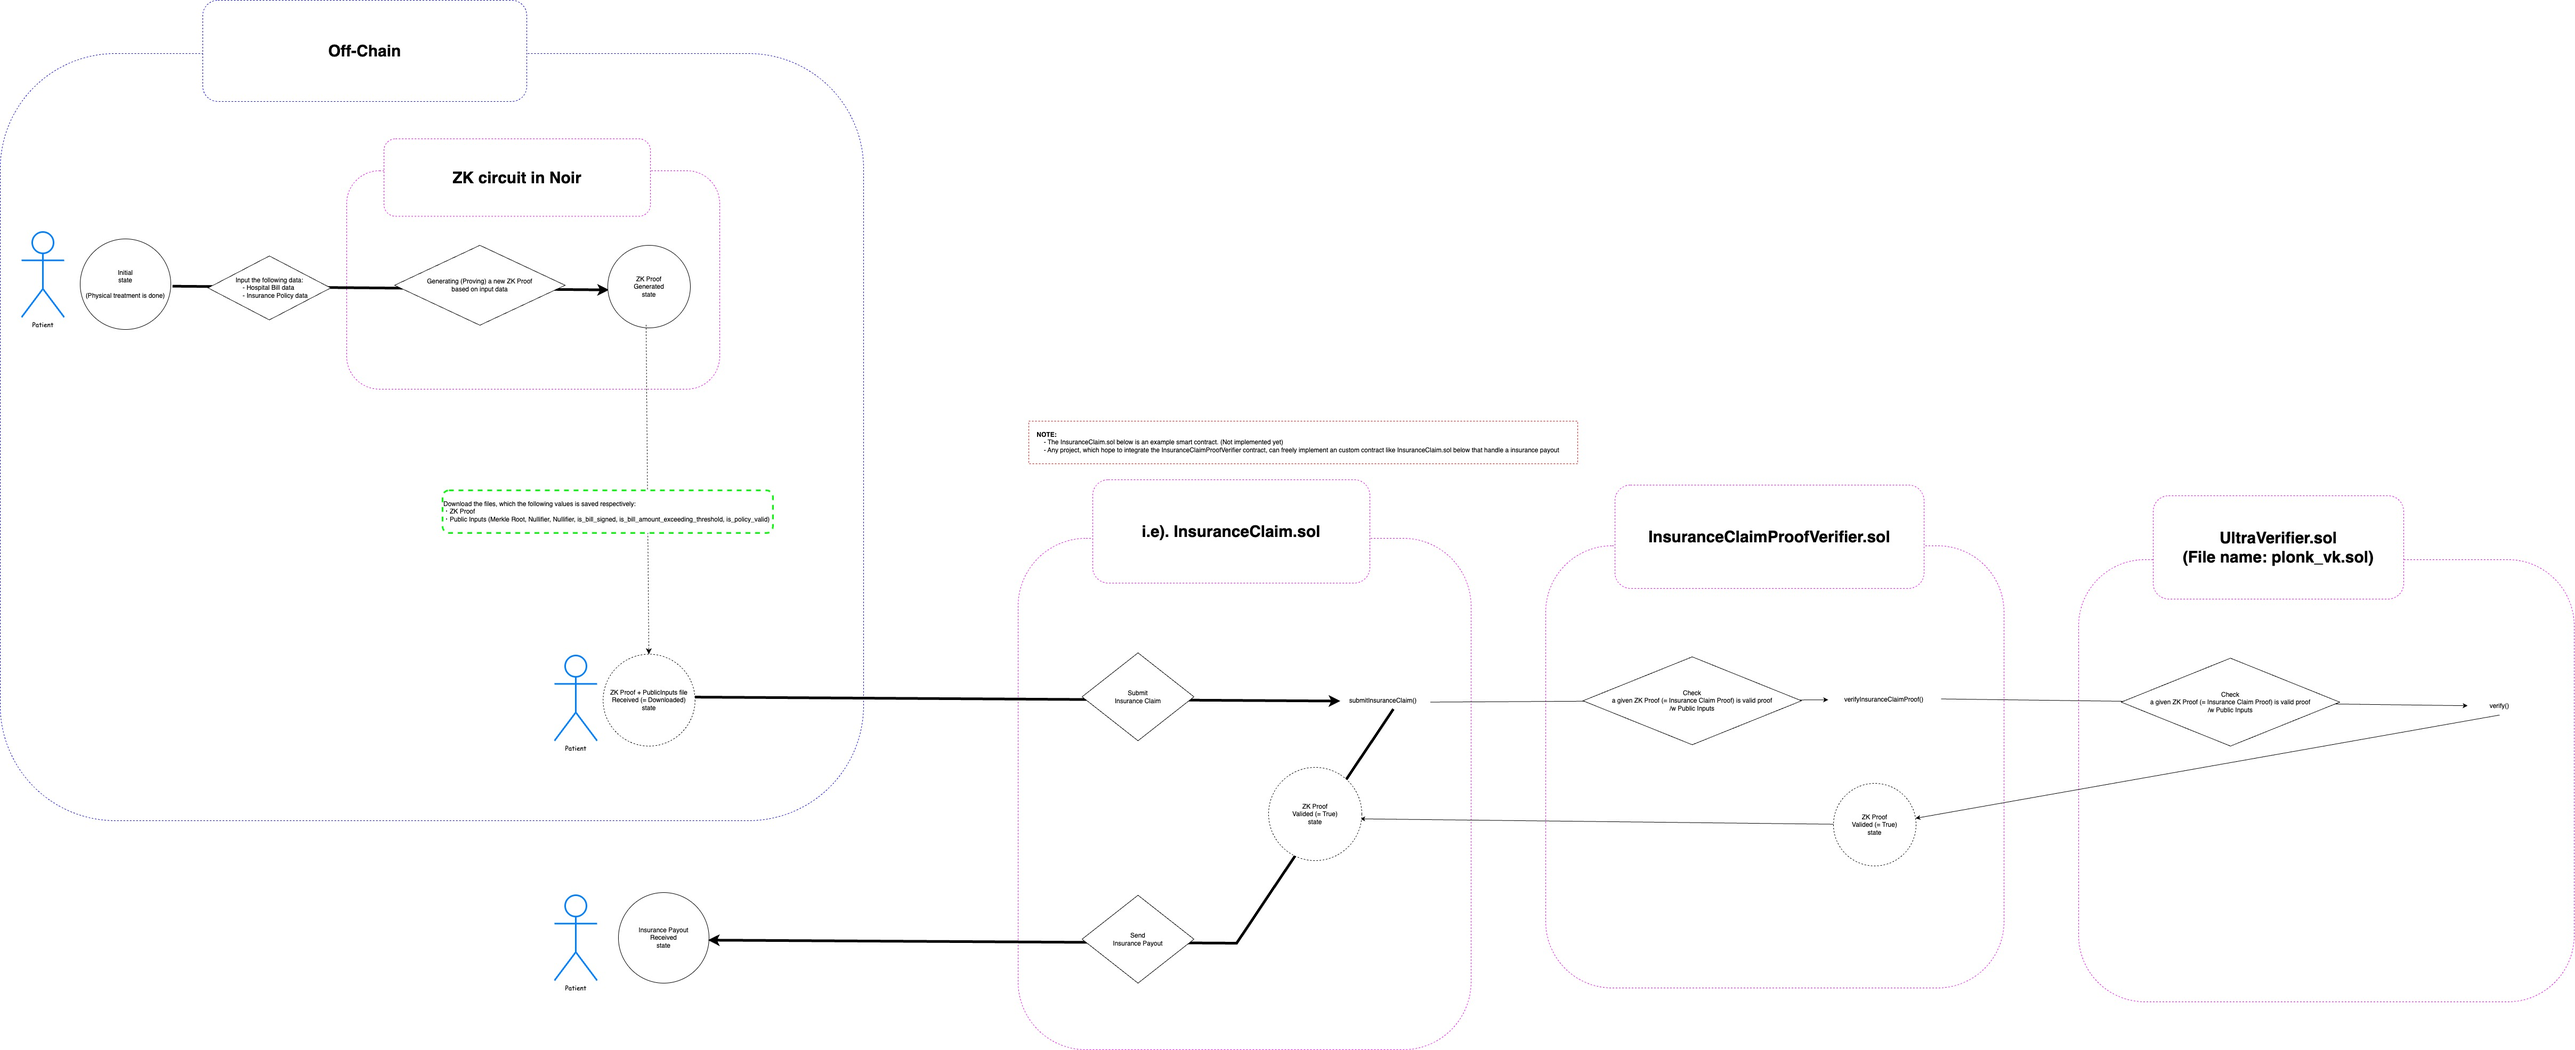
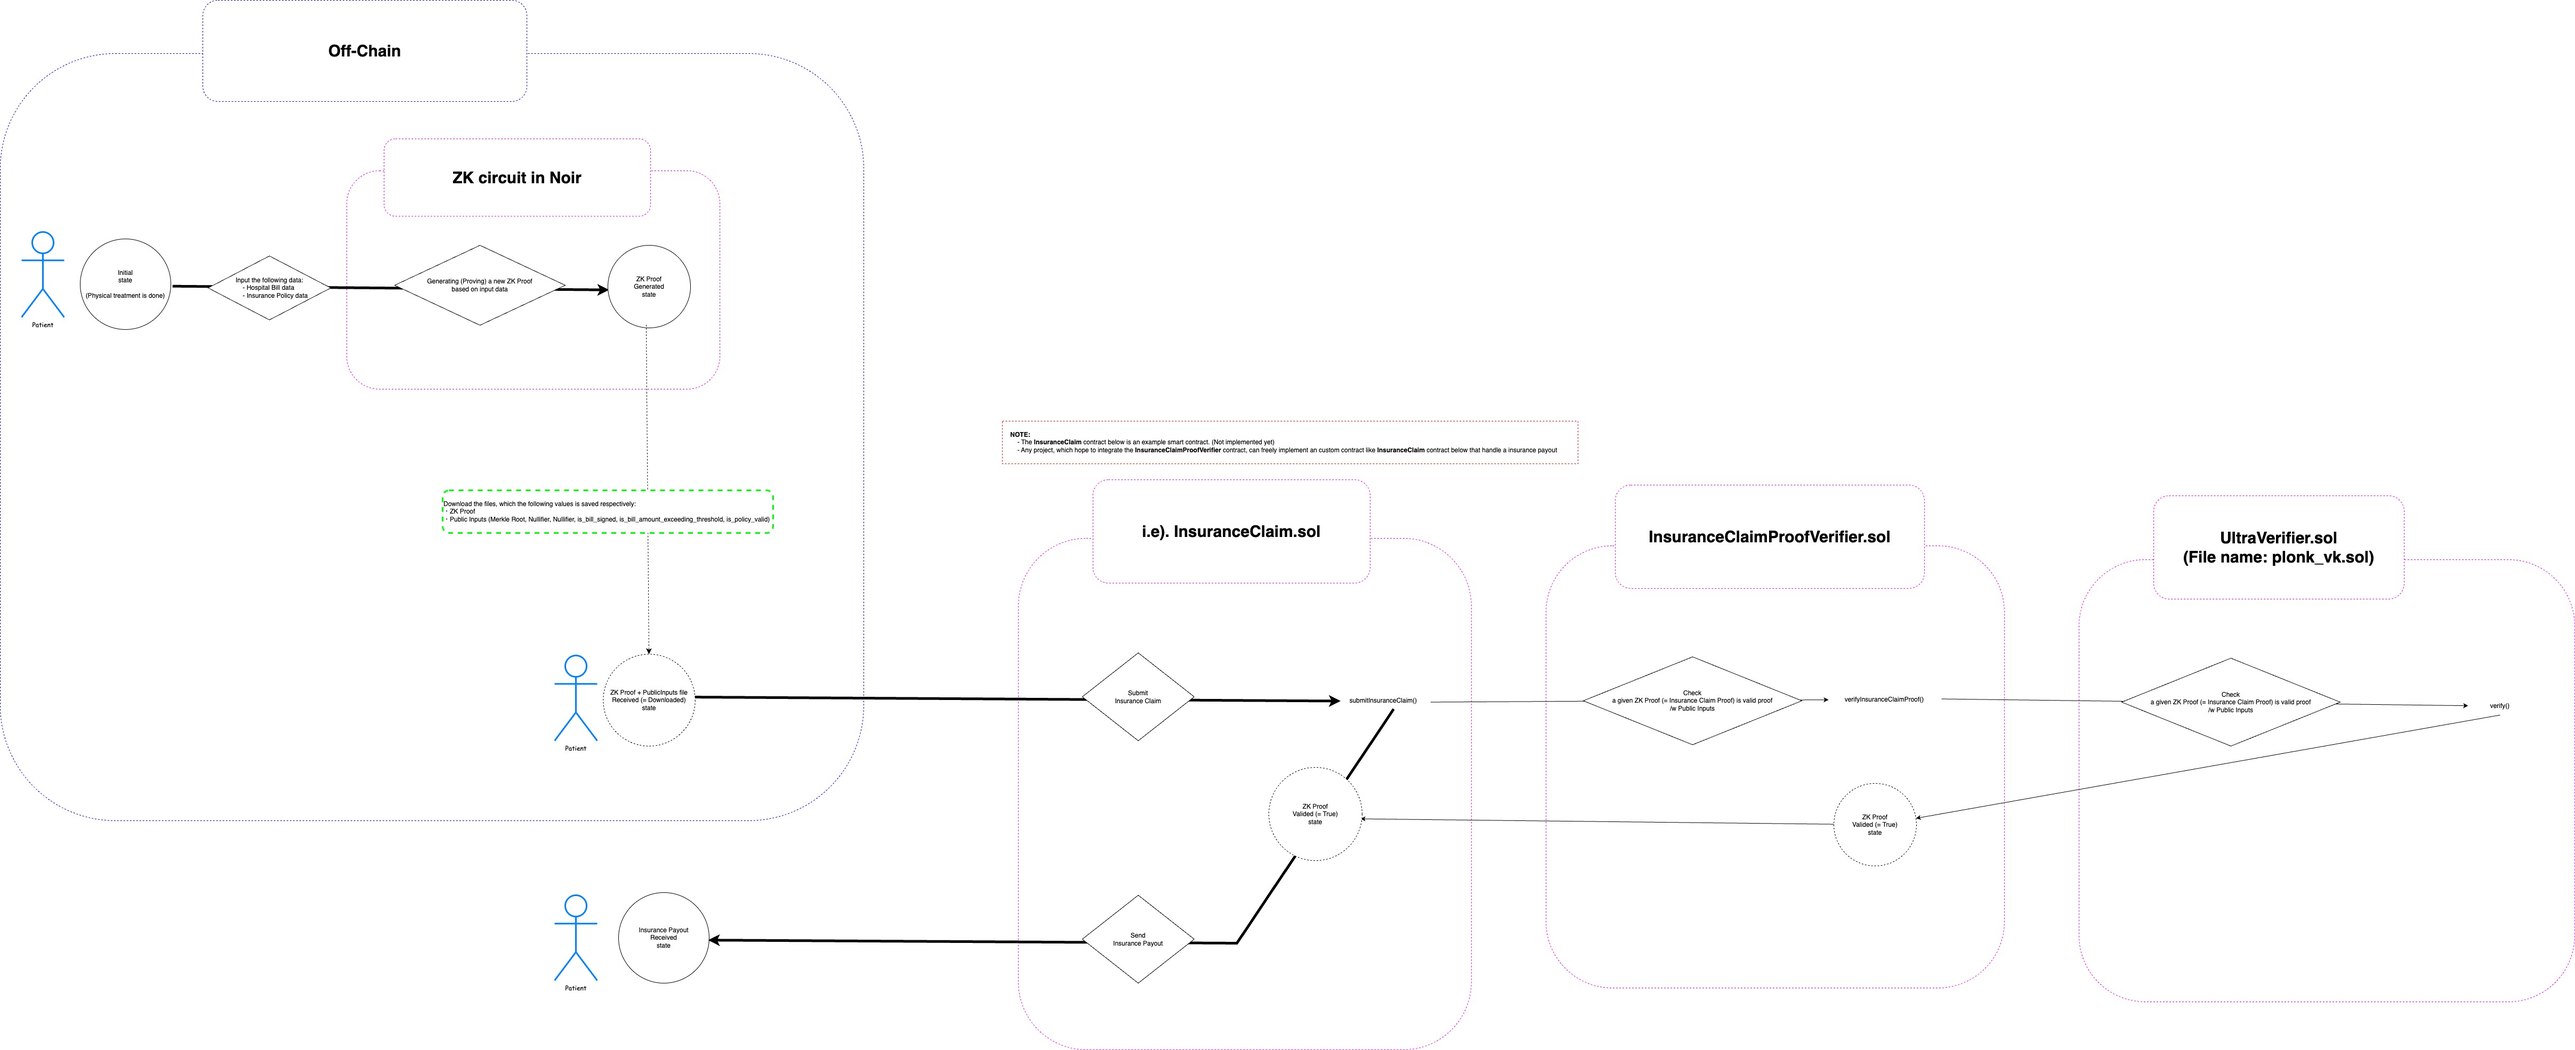
[Diagram]: Update a bit

diff --git a/README.md b/README.md
@@ -19,9 +19,17 @@
 
 ## Userflow
 
+- 
+
+
 <br>
 
-## Diagram of Userflow
+## Diagram of Architecure
+- Diagram of Architecure: https://github.com/masaun/ZK-insurance-claim/tree/main/doc/diagram-of-architecture
+
+- NOTE: 
+  - The `InsuranceClaim.sol` in the diagram above is an example smart contract. (Not implemented yet)
+  - Any project, which hope to integrate the `InsuranceClaimProofVerifier.sol`, can freely implement an **custom contract** like `InsuranceClaim.sol` in the diagram above that handle a insurance payout
 
 <br>
 
